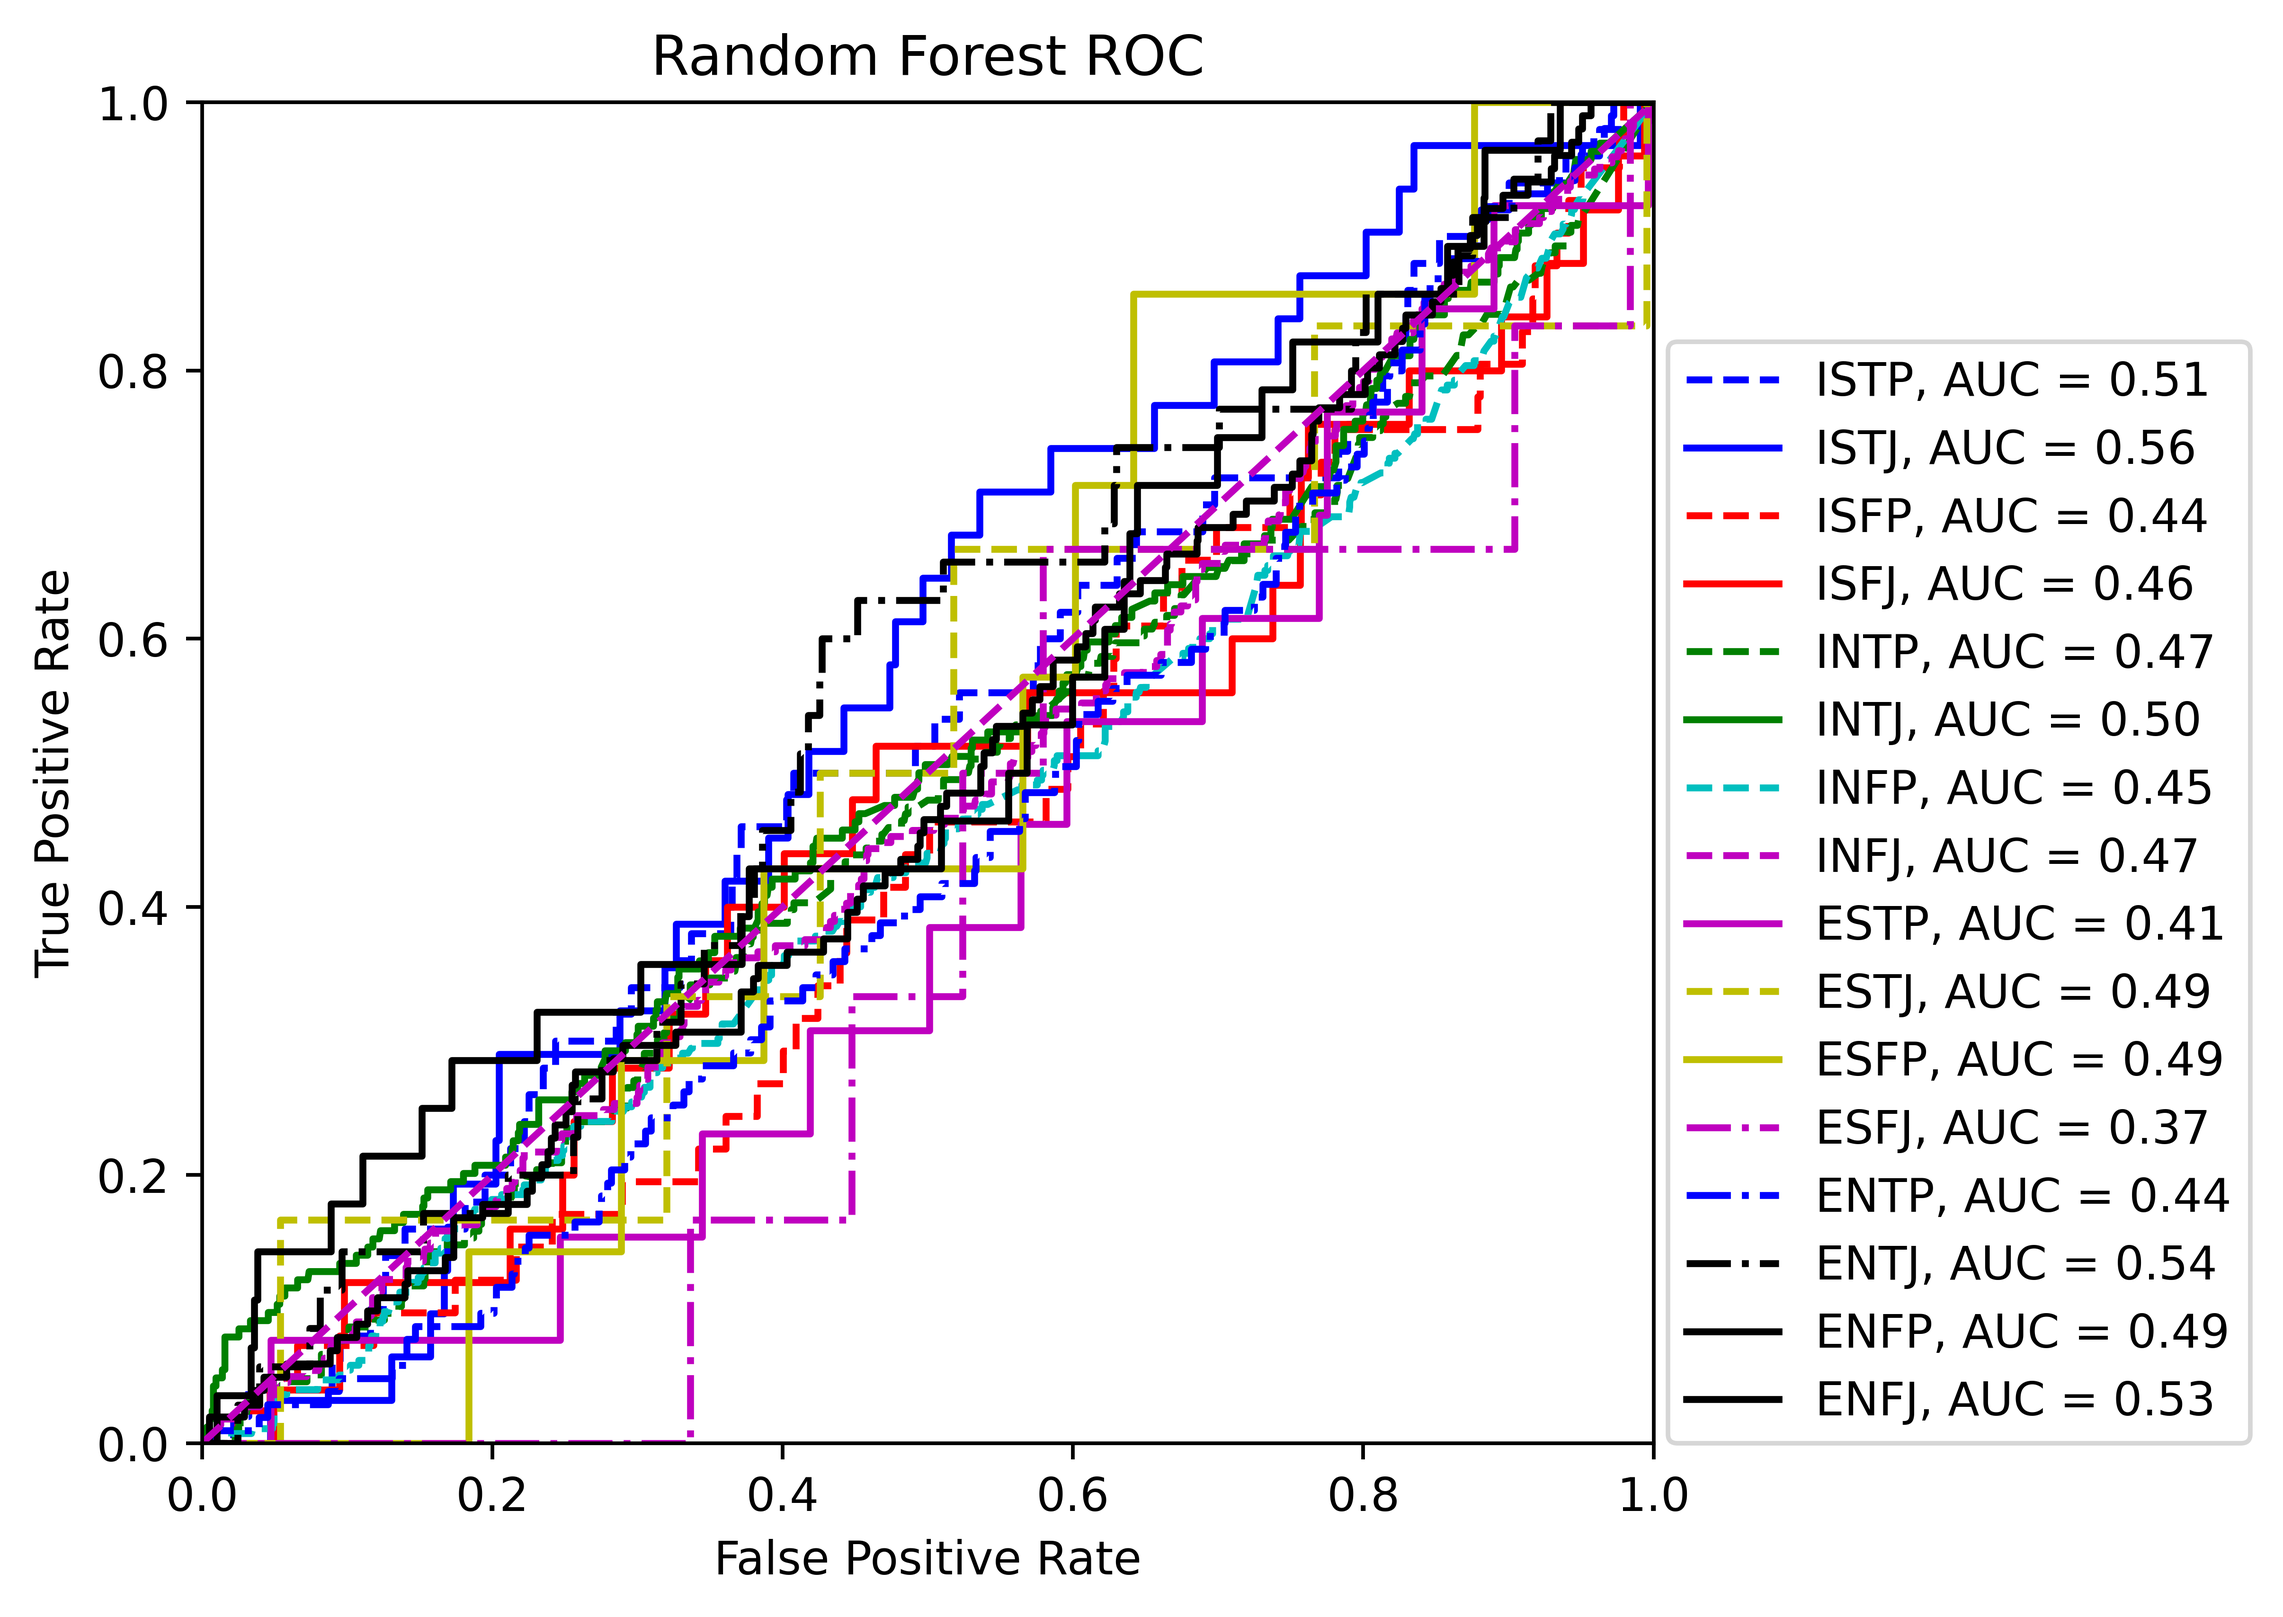
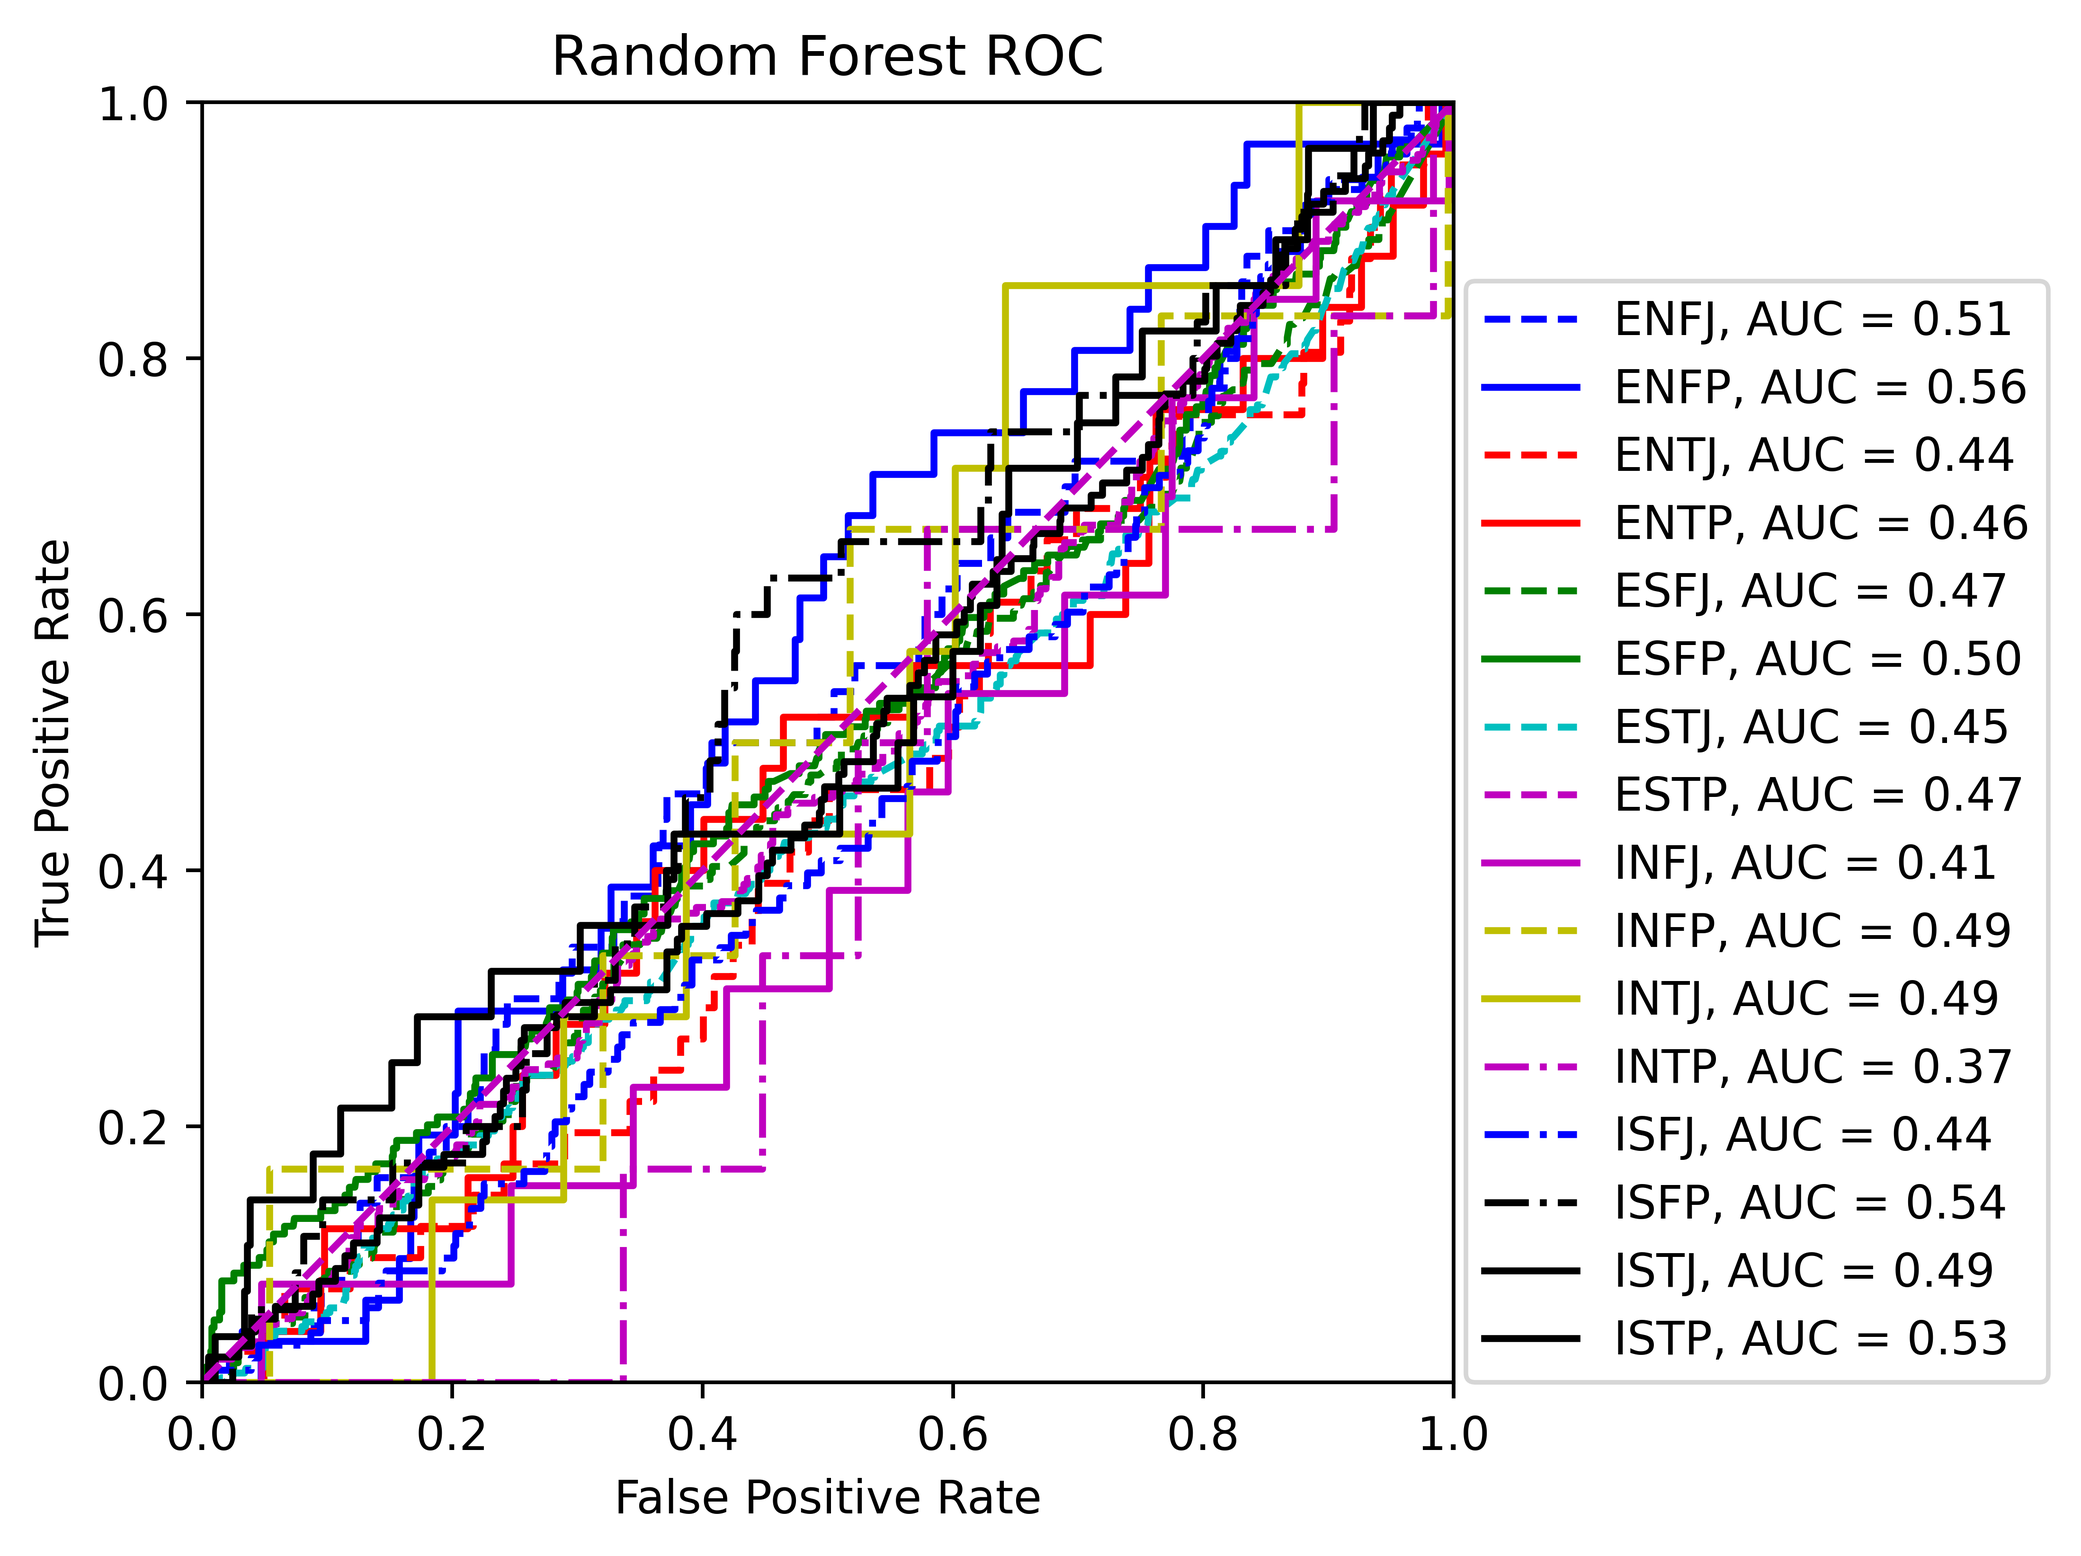
minor issue fixes, largely correcting roc curve labels

diff --git a/roc_n16.py b/roc_n16.py
@@ -9,7 +9,7 @@ import sklearn.metrics as metrics
 
 
 
-with open("src/models/results/xgb_16_labels.pkl", 'rb') as f:
+with open("src/models/results/rf_16_labels.pkl", 'rb') as f:
     lg_labels = pickle.load(f)
 
 
@@ -53,23 +53,23 @@ roc_auc15 = metrics.auc(fpr15, tpr15)
 #{'ENFJ': 0, 'ENFP': 1, 'ENTJ': 2, 'ENTP': 3, 'ESFJ': 4, 'ESFP': 5, 'ESTJ': 6, 'ESTP': 7, 'INFJ': 8, 'INFP': 9,
 # 'INTJ': 10, 'INTP': 11, 'ISFJ': 12, 'ISFP': 13, 'ISTJ': 14, 'ISTP': 15}
 
-plt.title('XGB ROC')
-plt.plot(fpr0, tpr0, 'b--', label = 'ISTP, AUC = %0.2f' % roc_auc0)
-plt.plot(fpr1, tpr1, 'b', label = 'ISTJ, AUC = %0.2f' % roc_auc1)
-plt.plot(fpr2, tpr2, 'r--', label = 'ISFP, AUC = %0.2f' % roc_auc2)
-plt.plot(fpr3, tpr3, 'r', label = 'ISFJ, AUC = %0.2f' % roc_auc3)
-plt.plot(fpr4, tpr4, 'g--', label = 'INTP, AUC = %0.2f' % roc_auc4)
-plt.plot(fpr5, tpr5, 'g', label = 'INTJ, AUC = %0.2f' % roc_auc5)
-plt.plot(fpr6, tpr6, 'c--', label = 'INFP, AUC = %0.2f' % roc_auc6)
-plt.plot(fpr7, tpr7, 'm--', label = 'INFJ, AUC = %0.2f' % roc_auc7)
-plt.plot(fpr8, tpr8, 'm', label = 'ESTP, AUC = %0.2f' % roc_auc8)
-plt.plot(fpr9, tpr9, 'y--', label = 'ESTJ, AUC = %0.2f' % roc_auc9)
-plt.plot(fpr10, tpr10, 'y', label = 'ESFP, AUC = %0.2f' % roc_auc10)
-plt.plot(fpr11, tpr11, 'm-.', label = 'ESFJ, AUC = %0.2f' % roc_auc11)
-plt.plot(fpr12, tpr12, 'b-.', label = 'ENTP, AUC = %0.2f' % roc_auc12)
-plt.plot(fpr13, tpr13, 'k-.', label = 'ENTJ, AUC = %0.2f' % roc_auc13)
-plt.plot(fpr14, tpr14, 'k', label = 'ENFP, AUC = %0.2f' % roc_auc14)
-plt.plot(fpr15, tpr15, 'k', label = 'ENFJ, AUC = %0.2f' % roc_auc15)
+plt.title('Random Forest ROC')
+plt.plot(fpr0, tpr0, 'b--', label = 'ENFJ, AUC = %0.2f' % roc_auc0)
+plt.plot(fpr1, tpr1, 'b', label = 'ENFP, AUC = %0.2f' % roc_auc1)
+plt.plot(fpr2, tpr2, 'r--', label = 'ENTJ, AUC = %0.2f' % roc_auc2)
+plt.plot(fpr3, tpr3, 'r', label = 'ENTP, AUC = %0.2f' % roc_auc3)
+plt.plot(fpr4, tpr4, 'g--', label = 'ESFJ, AUC = %0.2f' % roc_auc4)
+plt.plot(fpr5, tpr5, 'g', label = 'ESFP, AUC = %0.2f' % roc_auc5)
+plt.plot(fpr6, tpr6, 'c--', label = 'ESTJ, AUC = %0.2f' % roc_auc6)
+plt.plot(fpr7, tpr7, 'm--', label = 'ESTP, AUC = %0.2f' % roc_auc7)
+plt.plot(fpr8, tpr8, 'm', label = 'INFJ, AUC = %0.2f' % roc_auc8)
+plt.plot(fpr9, tpr9, 'y--', label = 'INFP, AUC = %0.2f' % roc_auc9)
+plt.plot(fpr10, tpr10, 'y', label = 'INTJ, AUC = %0.2f' % roc_auc10)
+plt.plot(fpr11, tpr11, 'm-.', label = 'INTP, AUC = %0.2f' % roc_auc11)
+plt.plot(fpr12, tpr12, 'b-.', label = 'ISFJ, AUC = %0.2f' % roc_auc12)
+plt.plot(fpr13, tpr13, 'k-.', label = 'ISFP, AUC = %0.2f' % roc_auc13)
+plt.plot(fpr14, tpr14, 'k', label = 'ISTJ, AUC = %0.2f' % roc_auc14)
+plt.plot(fpr15, tpr15, 'k', label = 'ISTP, AUC = %0.2f' % roc_auc15)
 
 plt.legend(loc=(1.01,0))
 plt.plot([0, 1], [0, 1],'m--')
@@ -79,7 +79,7 @@ plt.ylabel('True Positive Rate')
 plt.xlabel('False Positive Rate')
 plt.rcParams["figure.figsize"] = (7,5)
 plt.tight_layout()
-plt.savefig('visualizations/roc/xgb_n_roc.png', dpi=700, bbox_inches = "tight")
+plt.savefig('visualizations/roc/rf_n_roc.png', dpi=700, bbox_inches = "tight")
 plt.show()
 
 

diff --git a/src/models/model_eval.py b/src/models/model_eval.py
@@ -22,10 +22,10 @@ def eval(model, X_train, y_train, X_test, y_test):
     y_true, y_pred = y_test, model.predict(X_test)
     t3 = time.time()  # ending time
     test_time = t3 - t2
-    proba = model.predict_proba(X_test)
+    #proba = model.predict_proba(X_test)
 
     report = classification_report(y_true, y_pred, output_dict=True)
     report_df = pd.DataFrame(report)
     times = pd.DataFrame({'train_time': [train_time], 'test_time': [test_time]})
 
-    return times, [y_true, y_pred, proba], report_df
+    return times, [y_true, y_pred], report_df #[y_true, y_pred, proba]
